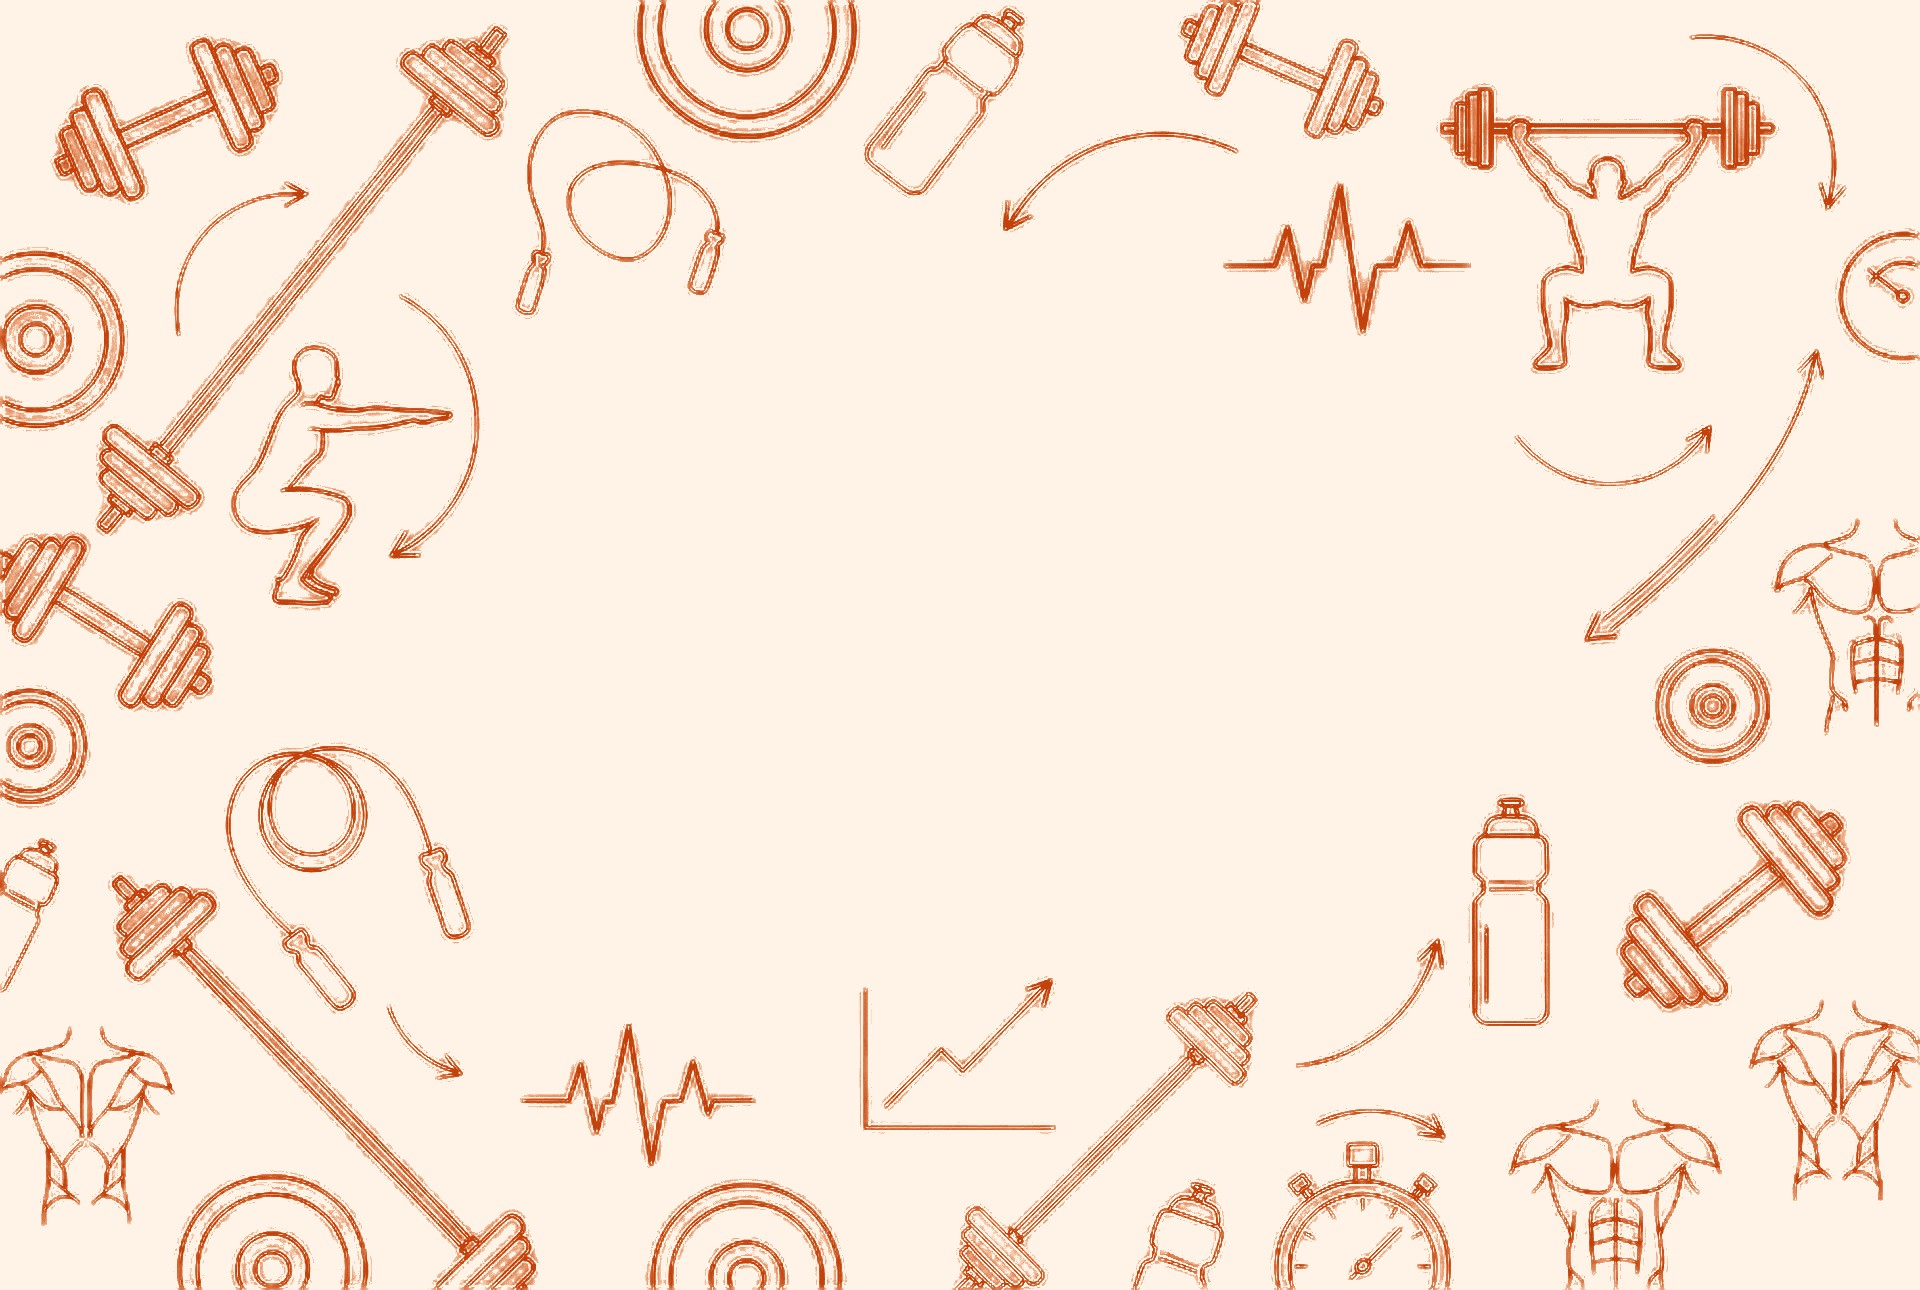
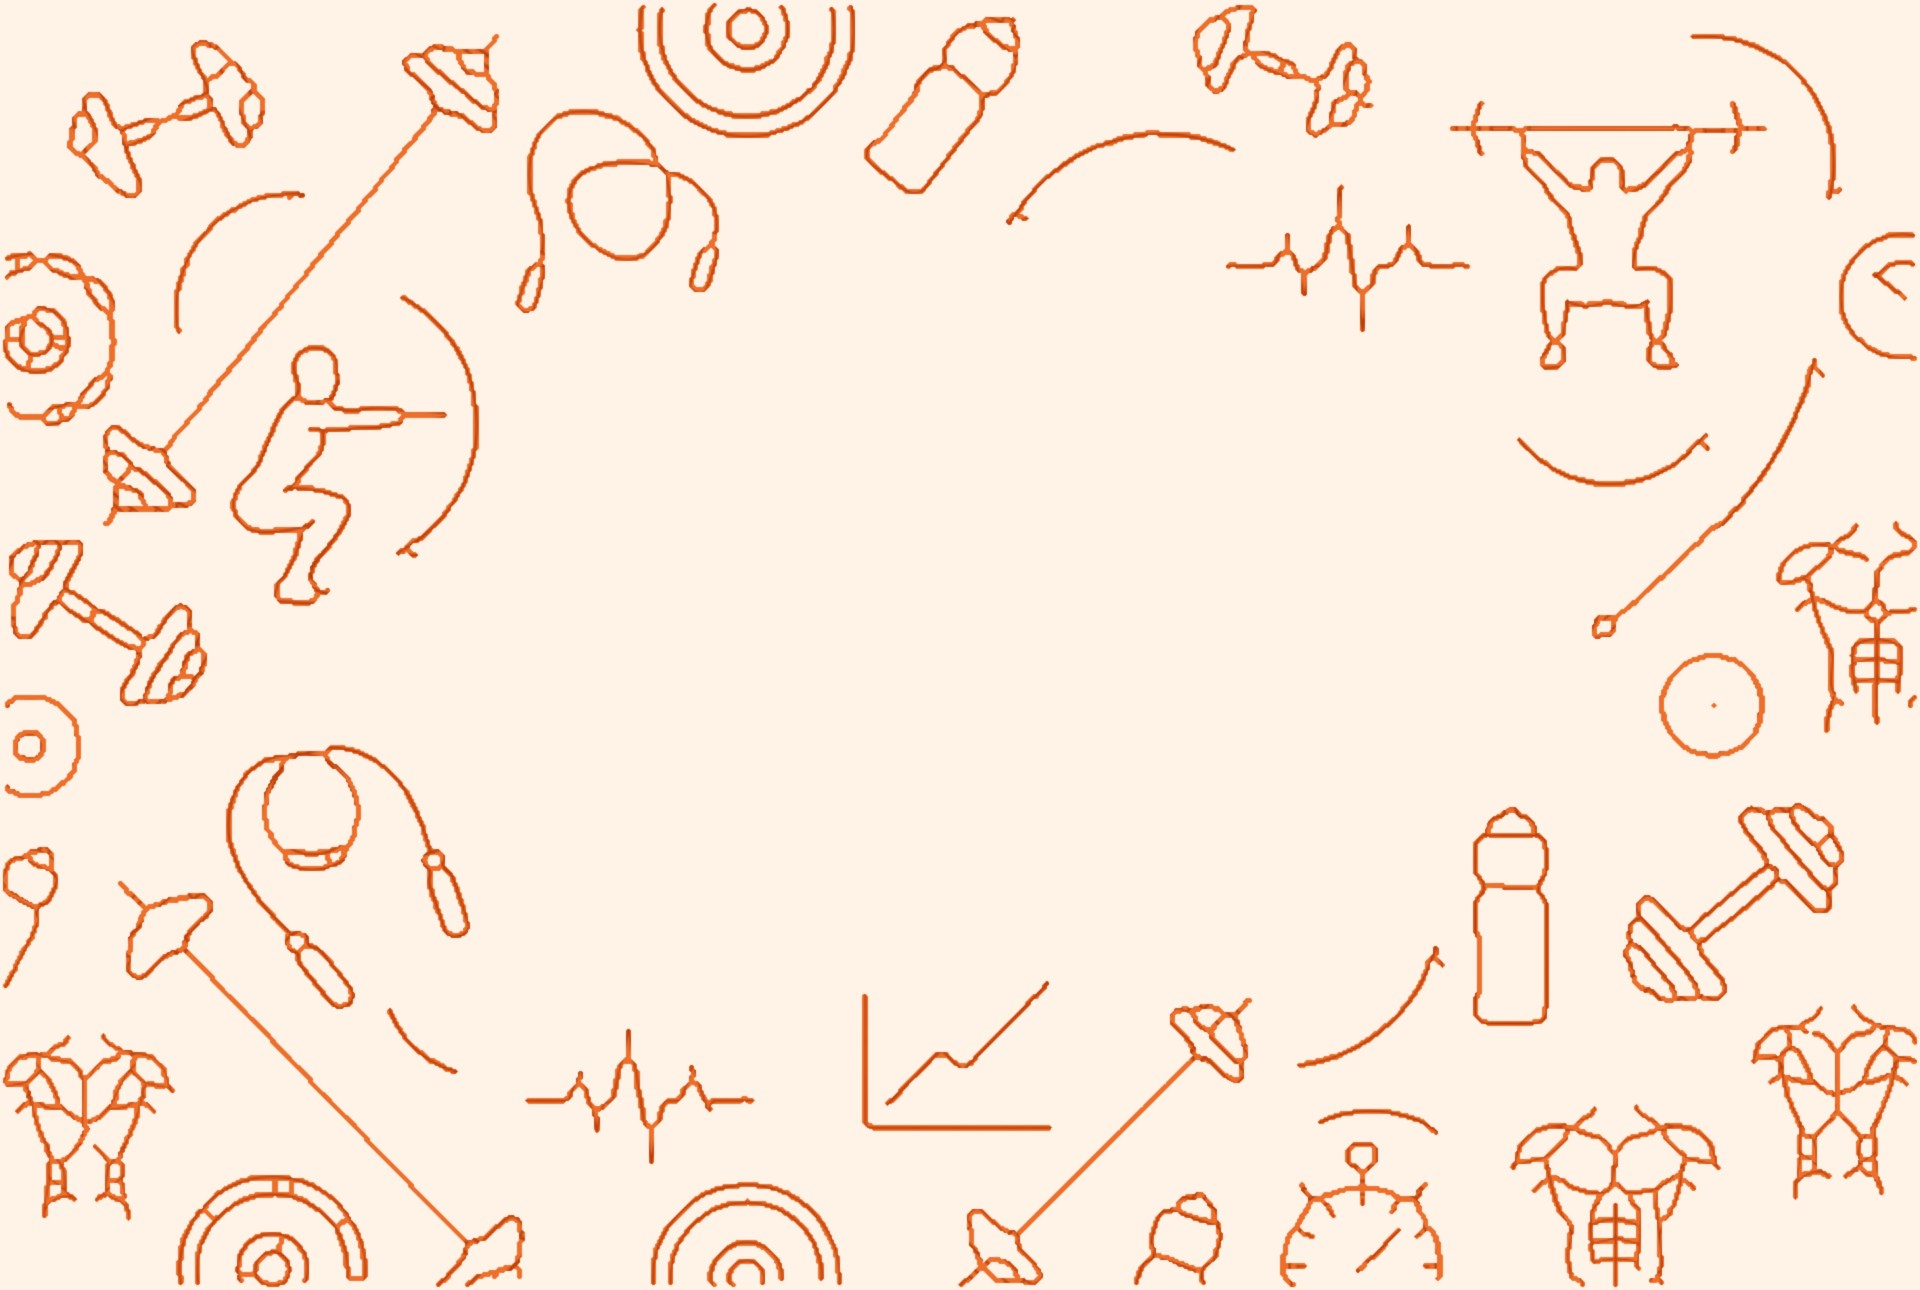
Add files via upload

diff --git a/TESTE-riseone.html b/TESTE-riseone.html
@@ -44,8 +44,8 @@ code{background:var(--card2);border:1px solid var(--bd);border-radius:6px;paddin
   <div class="item"><span class="dot">1</span><div><span class="k">Idioma sempre à vista</span><br><small class="mut">Botão 🌐 PT/EN no cabeçalho. Trocar muda tudo, inclusive as datas: <code>18/Set/2026</code> em PT e <code>Sep/18/2026</code> em EN.</small></div></div>
   <div class="item"><span class="dot">2</span><div><span class="k">Cinco tipos de acesso</span><br><small class="mut">Visitante, Aluno, Personal Trainer, Anunciante e Administrador na tela de entrada.</small></div></div>
   <div class="item"><span class="dot">3</span><div><span class="k">Conta com apelido, e-mail e recuperação</span><br><small class="mut">Ao criar a conta aparece um código <code>RISE-XXXX-XXXX</code>. Teste "Esqueci a senha" com ele.</small></div></div>
-  <div class="item"><span class="dot">4</span><div><span class="k">Banner em carrossel</span><br><small class="mut">Com dois ou mais anúncios ativos (painel do Anunciante), o banner do topo troca a cada 8 segundos.</small></div></div>
-  <div class="item"><span class="dot">5</span><div><span class="k">Pop-up com espera de 3 segundos</span><br><small class="mut">Crie um anúncio do tipo Pop-up e use "Ver o pop-up agora". O X só libera depois de 3 segundos.</small></div></div>
+  <div class="item"><span class="dot">4</span><div><span class="k">Faixa do topo em rolagem</span><br><small class="mut">Anúncios andando para a esquerda em laço, imagem ao lado do texto, pausa com o mouse ou o dedo, palavra ANÚNCIO na vertical à esquerda. Nenhum é do próprio RiseONE.</small></div></div>
+  <div class="item"><span class="dot">5</span><div><span class="k">Pop-up em dois momentos</span><br><small class="mut">Um antes do login e outro depois (app diferente), com contagem 3-2-1 antes de liberar o X; fecha no X, Esc ou clique fora. Deitado no computador, em pé no celular. Botão "Conhecer".</small></div></div>
   <div class="item"><span class="dot">6</span><div><span class="k">Premium sem anúncio</span><br><small class="mut">Ajustes › Anúncios › ativar conta sem anúncios: banner e pop-up somem.</small></div></div>
   <div class="item"><span class="dot">7</span><div><span class="k">Administrador define os níveis</span><br><small class="mut">Entre como Administrador e marque cada recurso como Visitante, Incluso ou Premium. Recurso trancado mostra o aviso "got it".</small></div></div>
   <div class="item"><span class="dot">8</span><div><span class="k">Avisos por tipo</span><br><small class="mut">Ajustes › Avisos: treino do dia, fim do descanso, missões, água, check-in e lembretes, cada um com seu horário.</small></div></div>
@@ -86,7 +86,7 @@ function run(){
   line(A, !!(navigator.mediaDevices&&navigator.mediaDevices.getUserMedia), 'Câmera disponível', 'Usada pelo OCR e pelo espelho.');
   line(A, navigator.onLine, 'Conexão', navigator.onLine? 'online':'offline — o app ainda deve abrir pelo cache');
   line(A, !!window.indexedDB && !!window.localStorage, 'Armazenamento local', 'Onde ficam treinos, fotos e medidas.');
-  ['index.html','manifest.json','sw.js','icone-192.png','icone-512.png','icone-maskable.png','fundo.jpg','fundo-celular.jpg','fundo-claro.jpg','fundo-claro-celular.jpg'].forEach(f=>{
+  ['index.html','manifest.json','sw.js','icone-192.png','icone-512.png','icone-maskable.png','fundo.jpg','fundo-celular.jpg','fundo-claro.jpg','fundo-claro-celular.jpg','anuncios.json'].forEach(f=>{
     fetch(f,{method:'HEAD'}).then(r=>line(F, r.ok, f, r.ok? 'encontrado':'faltando na raiz'))
       .catch(()=>line(F,false,f,'faltando na raiz'));
   });

diff --git a/sw.js b/sw.js
@@ -1,8 +1,8 @@
 /* RiseONE — service worker
    Guarda o app para abrir sem internet e recebe as notificacoes.
    Troque CACHE_VER ao publicar uma versao nova. */
-const CACHE_VER = "riseone-v2.2.3";
-const CORE = ["./", "./index.html", "./manifest.json", "./icone-192.png", "./icone-512.png", "./icone-maskable.png", "./fundo.jpg", "./fundo-celular.jpg", "./fundo-claro.jpg", "./fundo-claro-celular.jpg"];
+const CACHE_VER = "riseone-v2.3.0";
+const CORE = ["./", "./index.html", "./manifest.json", "./icone-192.png", "./icone-512.png", "./icone-maskable.png", "./fundo.jpg", "./fundo-celular.jpg", "./fundo-claro.jpg", "./fundo-claro-celular.jpg", "./anuncios.json"];
 
 self.addEventListener("install", ev => {
   ev.waitUntil(caches.open(CACHE_VER).then(c => c.addAll(CORE).catch(() => null)).then(() => self.skipWaiting()));

diff --git a/README.md b/README.md
@@ -15,9 +15,12 @@ Site: https://marceloneco.github.io/rise-one/
   `RISE-XXXX-XXXX` mostrado uma vez e fluxo de "esqueci a senha".
 - **Administrador dos níveis** — cada recurso pode ser marcado como aberto ao Visitante, Incluso
   (qualquer conta) ou Premium. Recurso trancado mostra um aviso explicando o porquê.
-- **Anúncios** — banner do topo em carrossel (troca a cada 8 s, cada anúncio com o seu link) e
-  pop-up na área logada com 3 segundos antes de liberar o X. Conta premium não vê anúncio nenhum.
-  O painel do anunciante conta exibições, cliques e taxa dos dois tipos.
+- **Anúncios (diretriz do portfólio)** — faixa do topo com os anúncios rolando para a esquerda em laço,
+  imagem ao lado do texto, pausa no toque ou no mouse, palavra ANÚNCIO na vertical e × que fecha até o
+  próximo login. Pop-up em dois momentos (antes do login com um app sorteado; depois do login com
+  outro app), contagem 3-2-1 antes de liberar o ×, fecha no ×, Esc ou clique fora; deitado no computador
+  e em pé no celular; botão "Conhecer". Lista em `anuncios.json`; sem o arquivo usa os apps do hub.
+  O RiseONE nunca anuncia a si mesmo. Exibições e cliques contados por anúncio. Premium não vê nada.
 - **Avisos e notificações** — treino do dia, fim do descanso, missões, água, check-in e lembretes,
   cada um ligável e com horário próprio. Estrutura de push de servidor já pronta no service worker.
 - **Instala e funciona sem internet** — `manifest.json`, `sw.js` e ícones na raiz; depois da primeira
@@ -82,6 +85,7 @@ Todos vão soltos na **raiz** do repositório:
 | `icone-192.png`, `icone-512.png`, `icone-maskable.png` | ícones do aplicativo |
 | `fundo.jpg`, `fundo-celular.jpg` | arte de fundo do tema escuro (computador e celular) |
 | `fundo-claro.jpg`, `fundo-claro-celular.jpg` | a mesma arte na versão do tema claro |
+| `anuncios.json` | lista de anúncios da faixa e do pop-up (editável) |
 | `TESTE-riseone.html` | página de conferência das diretrizes |
 
 A pasta `.github` (com `workflows/static.yml`) já está no repositório e **não pode ser apagada** —
@@ -100,4 +104,4 @@ Uso pessoal e para fins de estudo e pesquisa. As informações sobre exercícios
 saúde são informativas e não substituem profissional de educação física, nutricionista ou médico.
 
 ---
-Versão 2.2.3
+Versão 2.3.0
